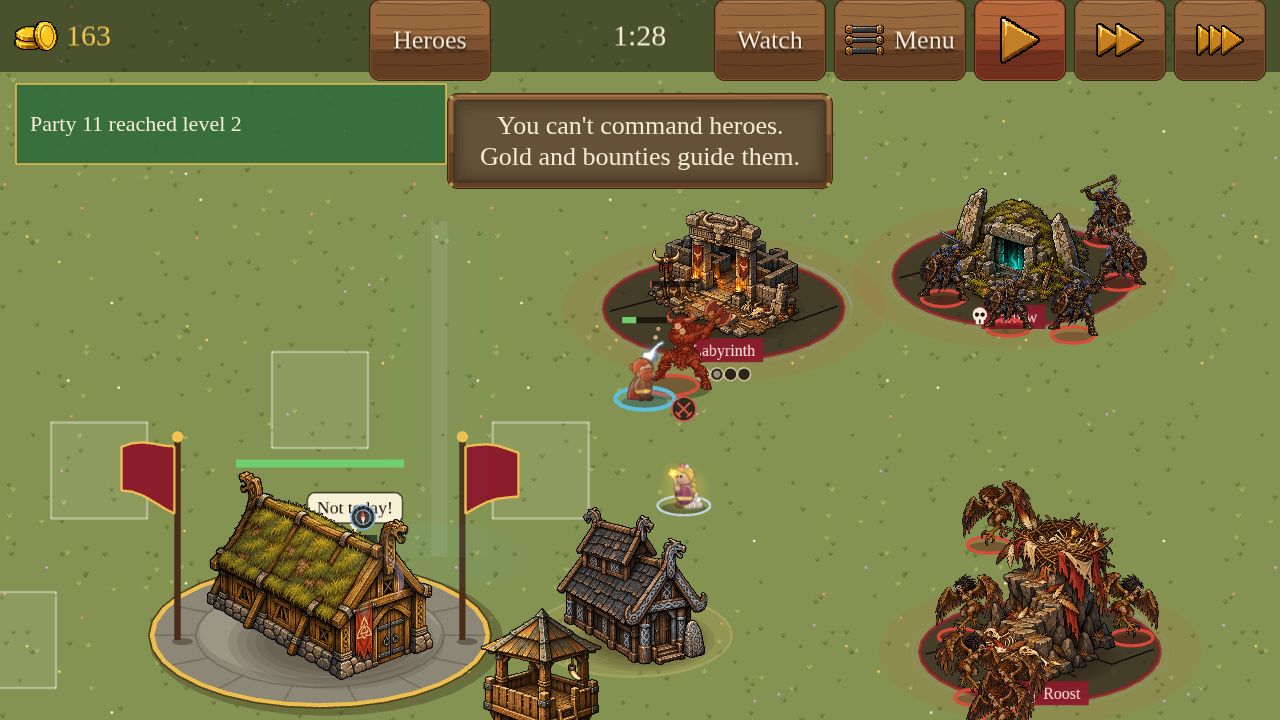
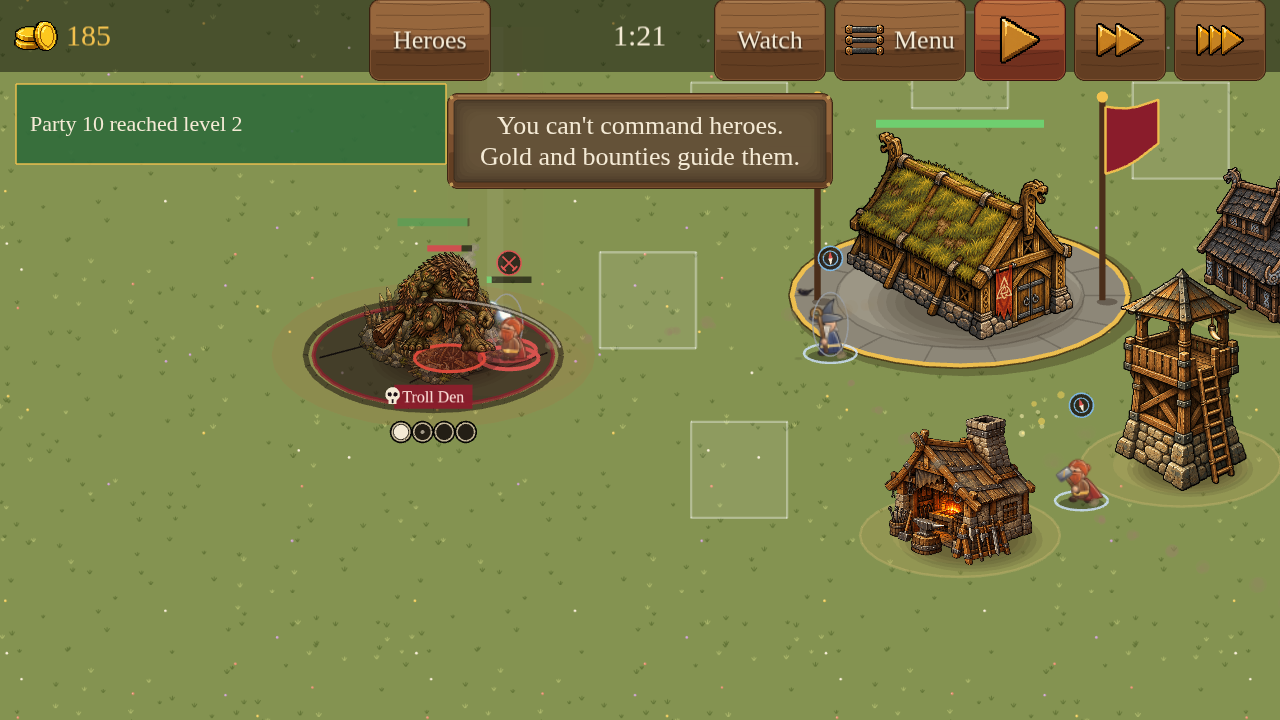
fix(scene): lair plate, ring and pips above the guards; pips 1.5x with outline; darker ring track, brighter fill
Claude-Session: https://claude.ai/code/session_01EDKMoTWRabZMeHFkhrUDvd

diff --git a/src/ui/lairRings.ts b/src/ui/lairRings.ts
@@ -13,6 +13,9 @@ import {
 
 export { groundScale, plateColor };
 
+// Above the units and buildings (MapScene draws the lair plates here too).
+export const LAIR_UI_DEPTH = 800_000;
+
 interface Memory {
   tier: number;
   alive: number;
@@ -35,7 +38,7 @@ export class LairIndicators {
   private readonly mem = new Map<number, Memory>();
 
   constructor(private readonly scene: Phaser.Scene) {
-    this.g = scene.add.graphics().setDepth(0.7);
+    this.g = scene.add.graphics().setDepth(LAIR_UI_DEPTH - 1);
   }
 
   destroy(): void {
@@ -113,8 +116,9 @@ export class LairIndicators {
     const stage = ringStage(next);
     const t = this.scene.time.now / 1000;
     const beat = stage === 'pulse' ? 0.5 + 0.5 * Math.sin(t * Math.PI * 2) : 0;
-    const color = stage === 'dim' ? 0x9a9a9a : 0xf2a62e;
-    g.lineStyle(3, 0x9a9a9a, 0.18).strokeEllipse(cx, cy, rx * 2, ry * 2);
+    const color = stage === 'dim' ? 0xe6e1d2 : 0xffb43a;
+    // A dark track so the empty part reads on the grass.
+    g.lineStyle(7, 0x1a1410, 0.55).strokeEllipse(cx, cy, rx * 2, ry * 2);
     g.lineStyle(
       stage === 'dim' ? 3 : 4 + beat * 3,
       color,
@@ -163,9 +167,9 @@ export class LairIndicators {
     const g = this.g;
     const share = nextSpawn !== null && m.spawnSpan > 0 ? 1 - nextSpawn / m.spawnSpan : 0;
     const row = pipRow(alive, max, share);
-    const gap = 17;
+    const gap = 27;
     const x0 = l.pos.x - ((row.length - 1) * gap) / 2;
-    const y = l.pos.y + 76;
+    const y = l.pos.y + 90;
     if (m.openGlowMs > 0)
       g.fillStyle(0xfff0b0, 0.35 * (m.openGlowMs / 900)).fillEllipse(
         l.pos.x,
@@ -175,14 +179,15 @@ export class LairIndicators {
       );
     row.forEach((p, i) => {
       const x = x0 + i * gap;
-      g.fillStyle(0x1a1410, 0.85).fillCircle(x, y, 8);
-      if (p.kind === 'alive') g.fillStyle(0xf4ead5, 1).fillCircle(x, y, 6);
+      g.fillStyle(0x1a1410, 0.92).fillCircle(x, y, 12);
+      if (p.kind === 'alive') g.fillStyle(0xf4ead5, 1).fillCircle(x, y, 9);
       else if (p.kind === 'filling' && p.fill > 0)
-        g.fillStyle(0xf4ead5, 0.55).fillCircle(x, y, 6 * p.fill);
-      g.lineStyle(2, 0xd9c9a8, 0.9).strokeCircle(x, y, 8);
+        g.fillStyle(0xf4ead5, 0.6).fillCircle(x, y, 9 * p.fill);
+      g.lineStyle(3, 0x000000, 0.95).strokeCircle(x, y, 12.5);
+      g.lineStyle(2, 0xd9c9a8, 0.9).strokeCircle(x, y, 11);
       // The newest empty slot flashes red when a guard dies.
       if (p.kind !== 'alive' && i === alive && m.killFlashMs > 0)
-        g.fillStyle(0xff3b30, m.killFlashMs / 600).fillCircle(x, y, 8);
+        g.fillStyle(0xff3b30, m.killFlashMs / 600).fillCircle(x, y, 12);
     });
   }
 
@@ -198,7 +203,7 @@ export class LairIndicators {
           padding: { x: 8, y: 2 },
         })
         .setOrigin(0, 0.5)
-        .setDepth(900_000);
+        .setDepth(LAIR_UI_DEPTH + 1);
       this.texts.set(id, t);
     }
     return t;

diff --git a/src/scenes/MapScene.ts b/src/scenes/MapScene.ts
@@ -30,7 +30,7 @@ import { iconScale } from '../ui/icons';
 import { releaseSets } from '../ui/parts/bake';
 import { effectiveSpeed } from '../ui/pathSpeed';
 import { STYLE } from '../ui/style';
-import { LairIndicators, groundScale, plateColor } from '../ui/lairRings';
+import { LAIR_UI_DEPTH, LairIndicators, groundScale, plateColor } from '../ui/lairRings';
 import { groundShadow, lairDecal, lairPlate, townPatch } from '../ui/groundDecal';
 import { HALL_STYLE, drawBanners, isTownHall, plazaDecal } from '../ui/townHallLook';
 import {
@@ -773,8 +773,10 @@ export class MapScene extends Phaser.Scene {
     const decal = lairDecal(this, l.boss);
     this.groundUnder(c, decal, l.pos);
     c.setData('decal', decal);
+    // The plate is UI: it sits above the guards that stand around the lair, not in its picture.
     const plate = lairPlate(this, l.type).setVisible(false);
-    c.add(plate);
+    plate.setPosition(l.pos.x, l.pos.y + 46).setDepth(LAIR_UI_DEPTH);
+    c.once(Phaser.GameObjects.Events.DESTROY, () => plate.destroy());
     c.setData('plate', plate);
     this.refreshLair(c, l.type, l.tier, l.boss);
     return c;
